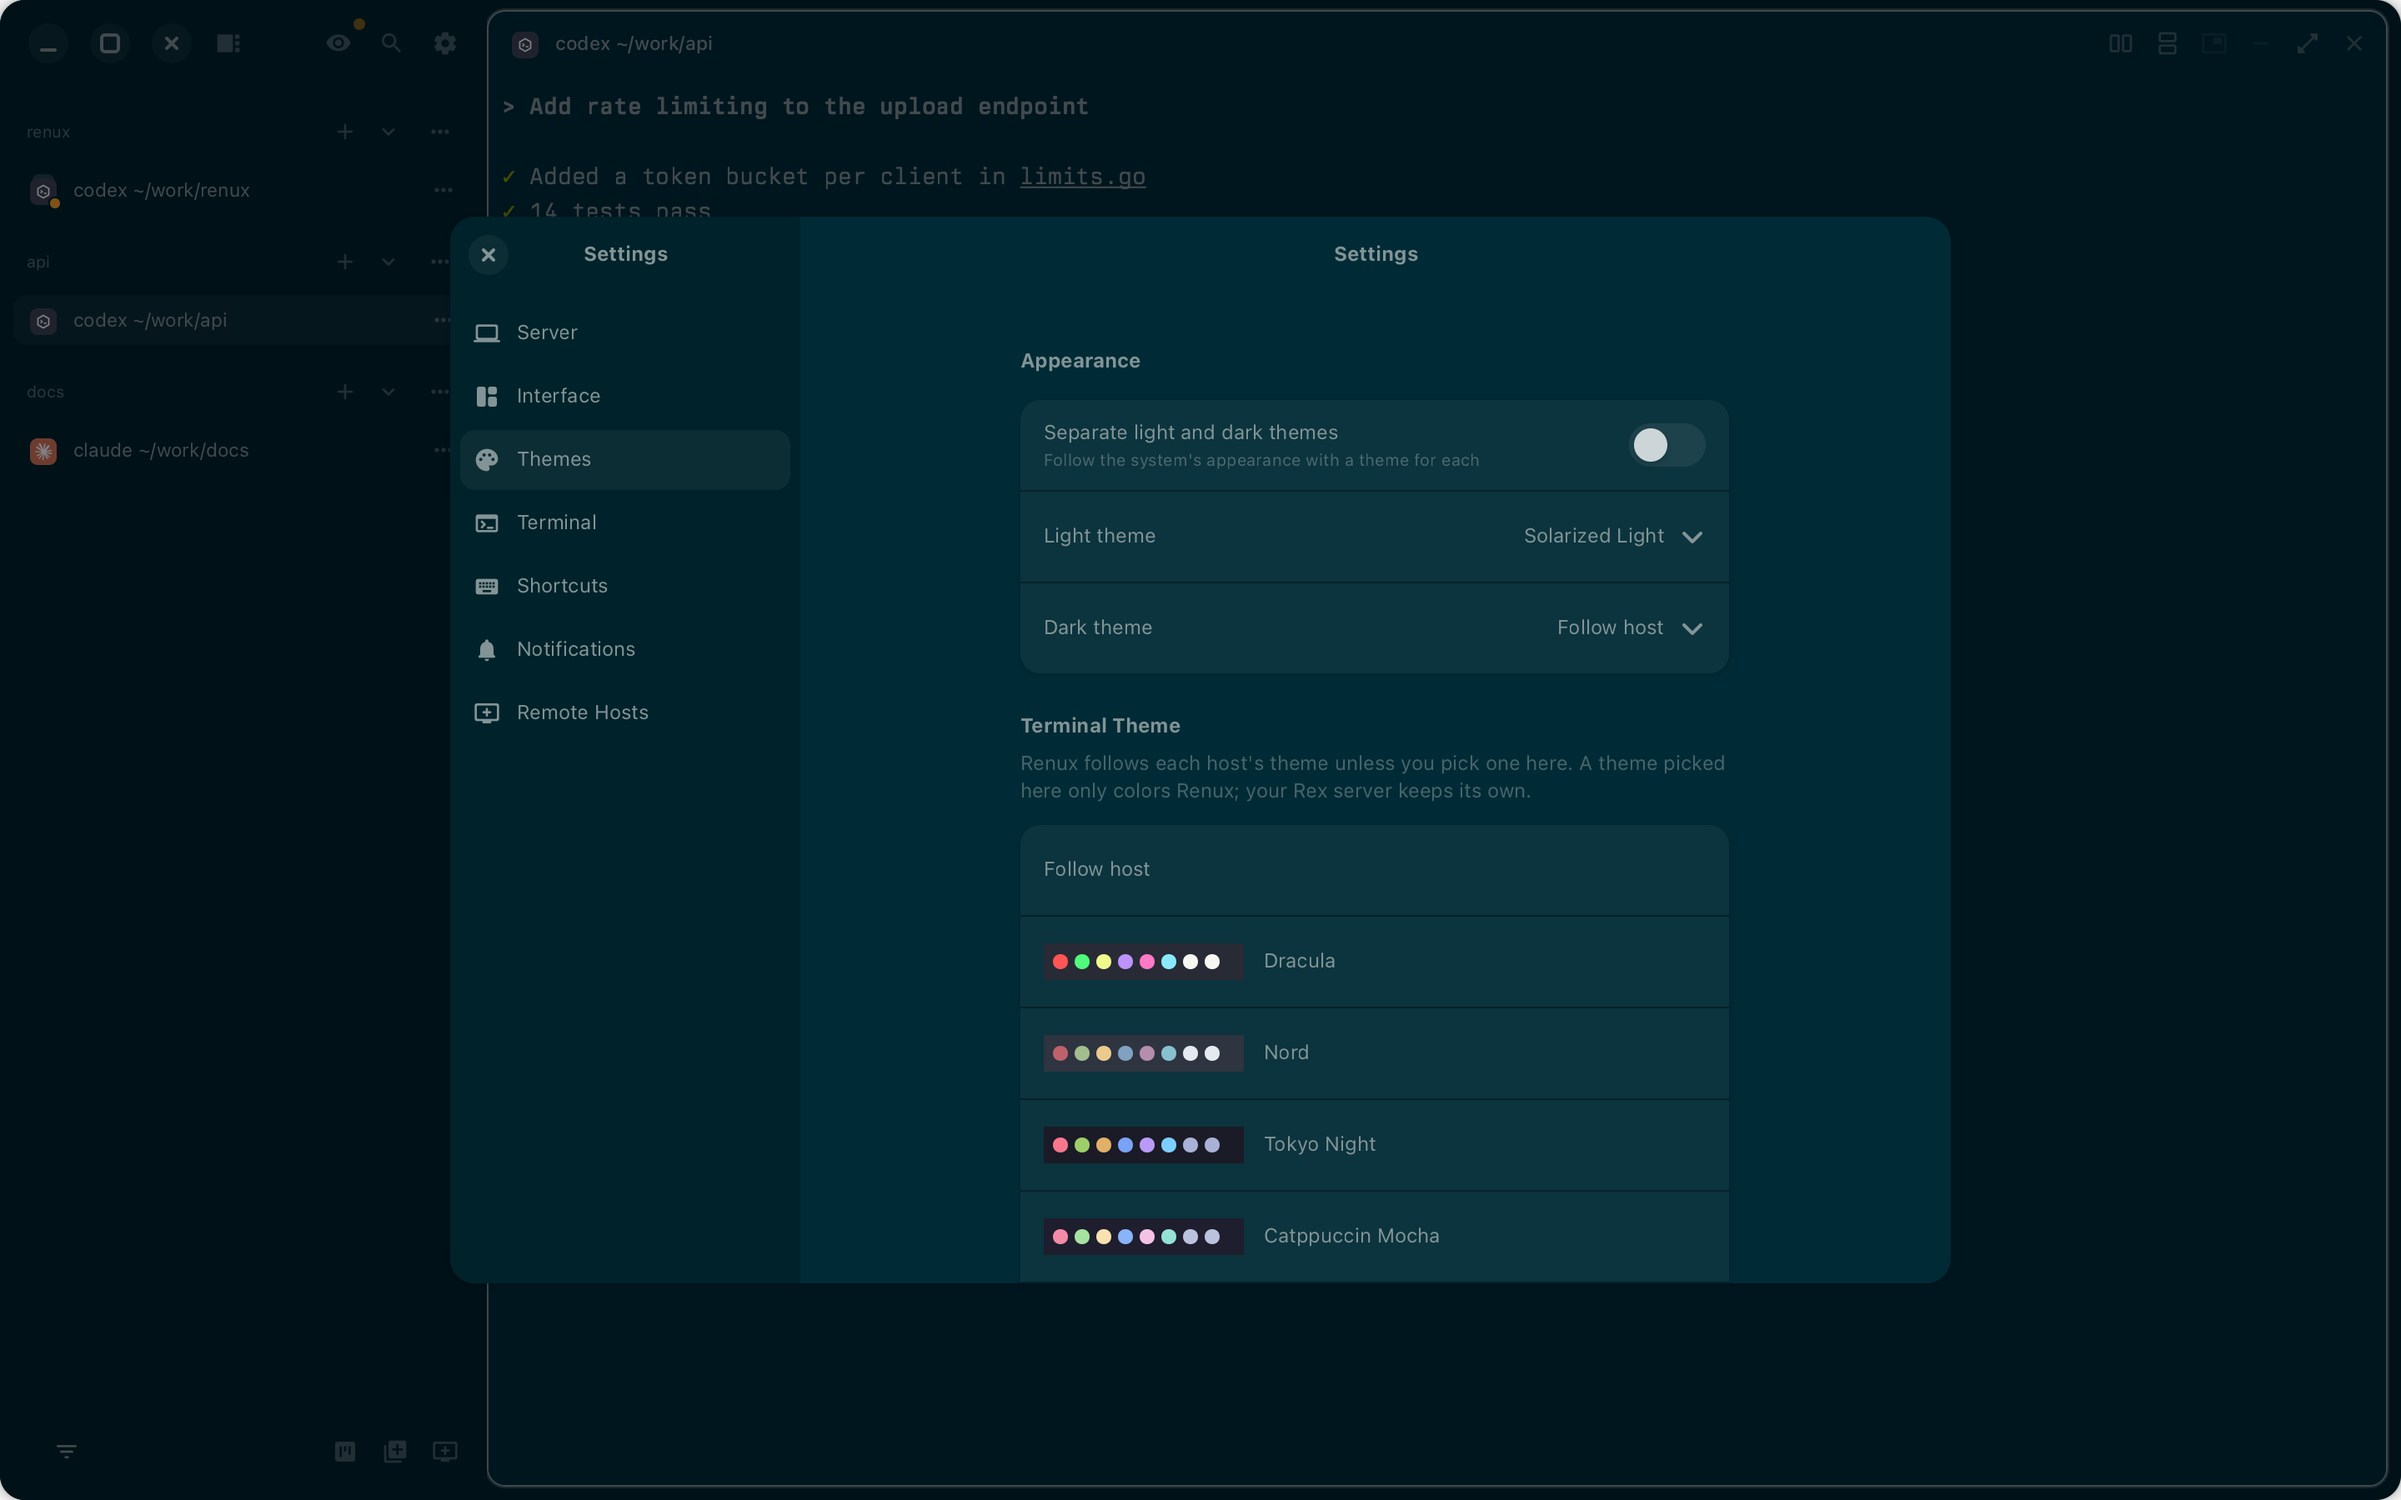
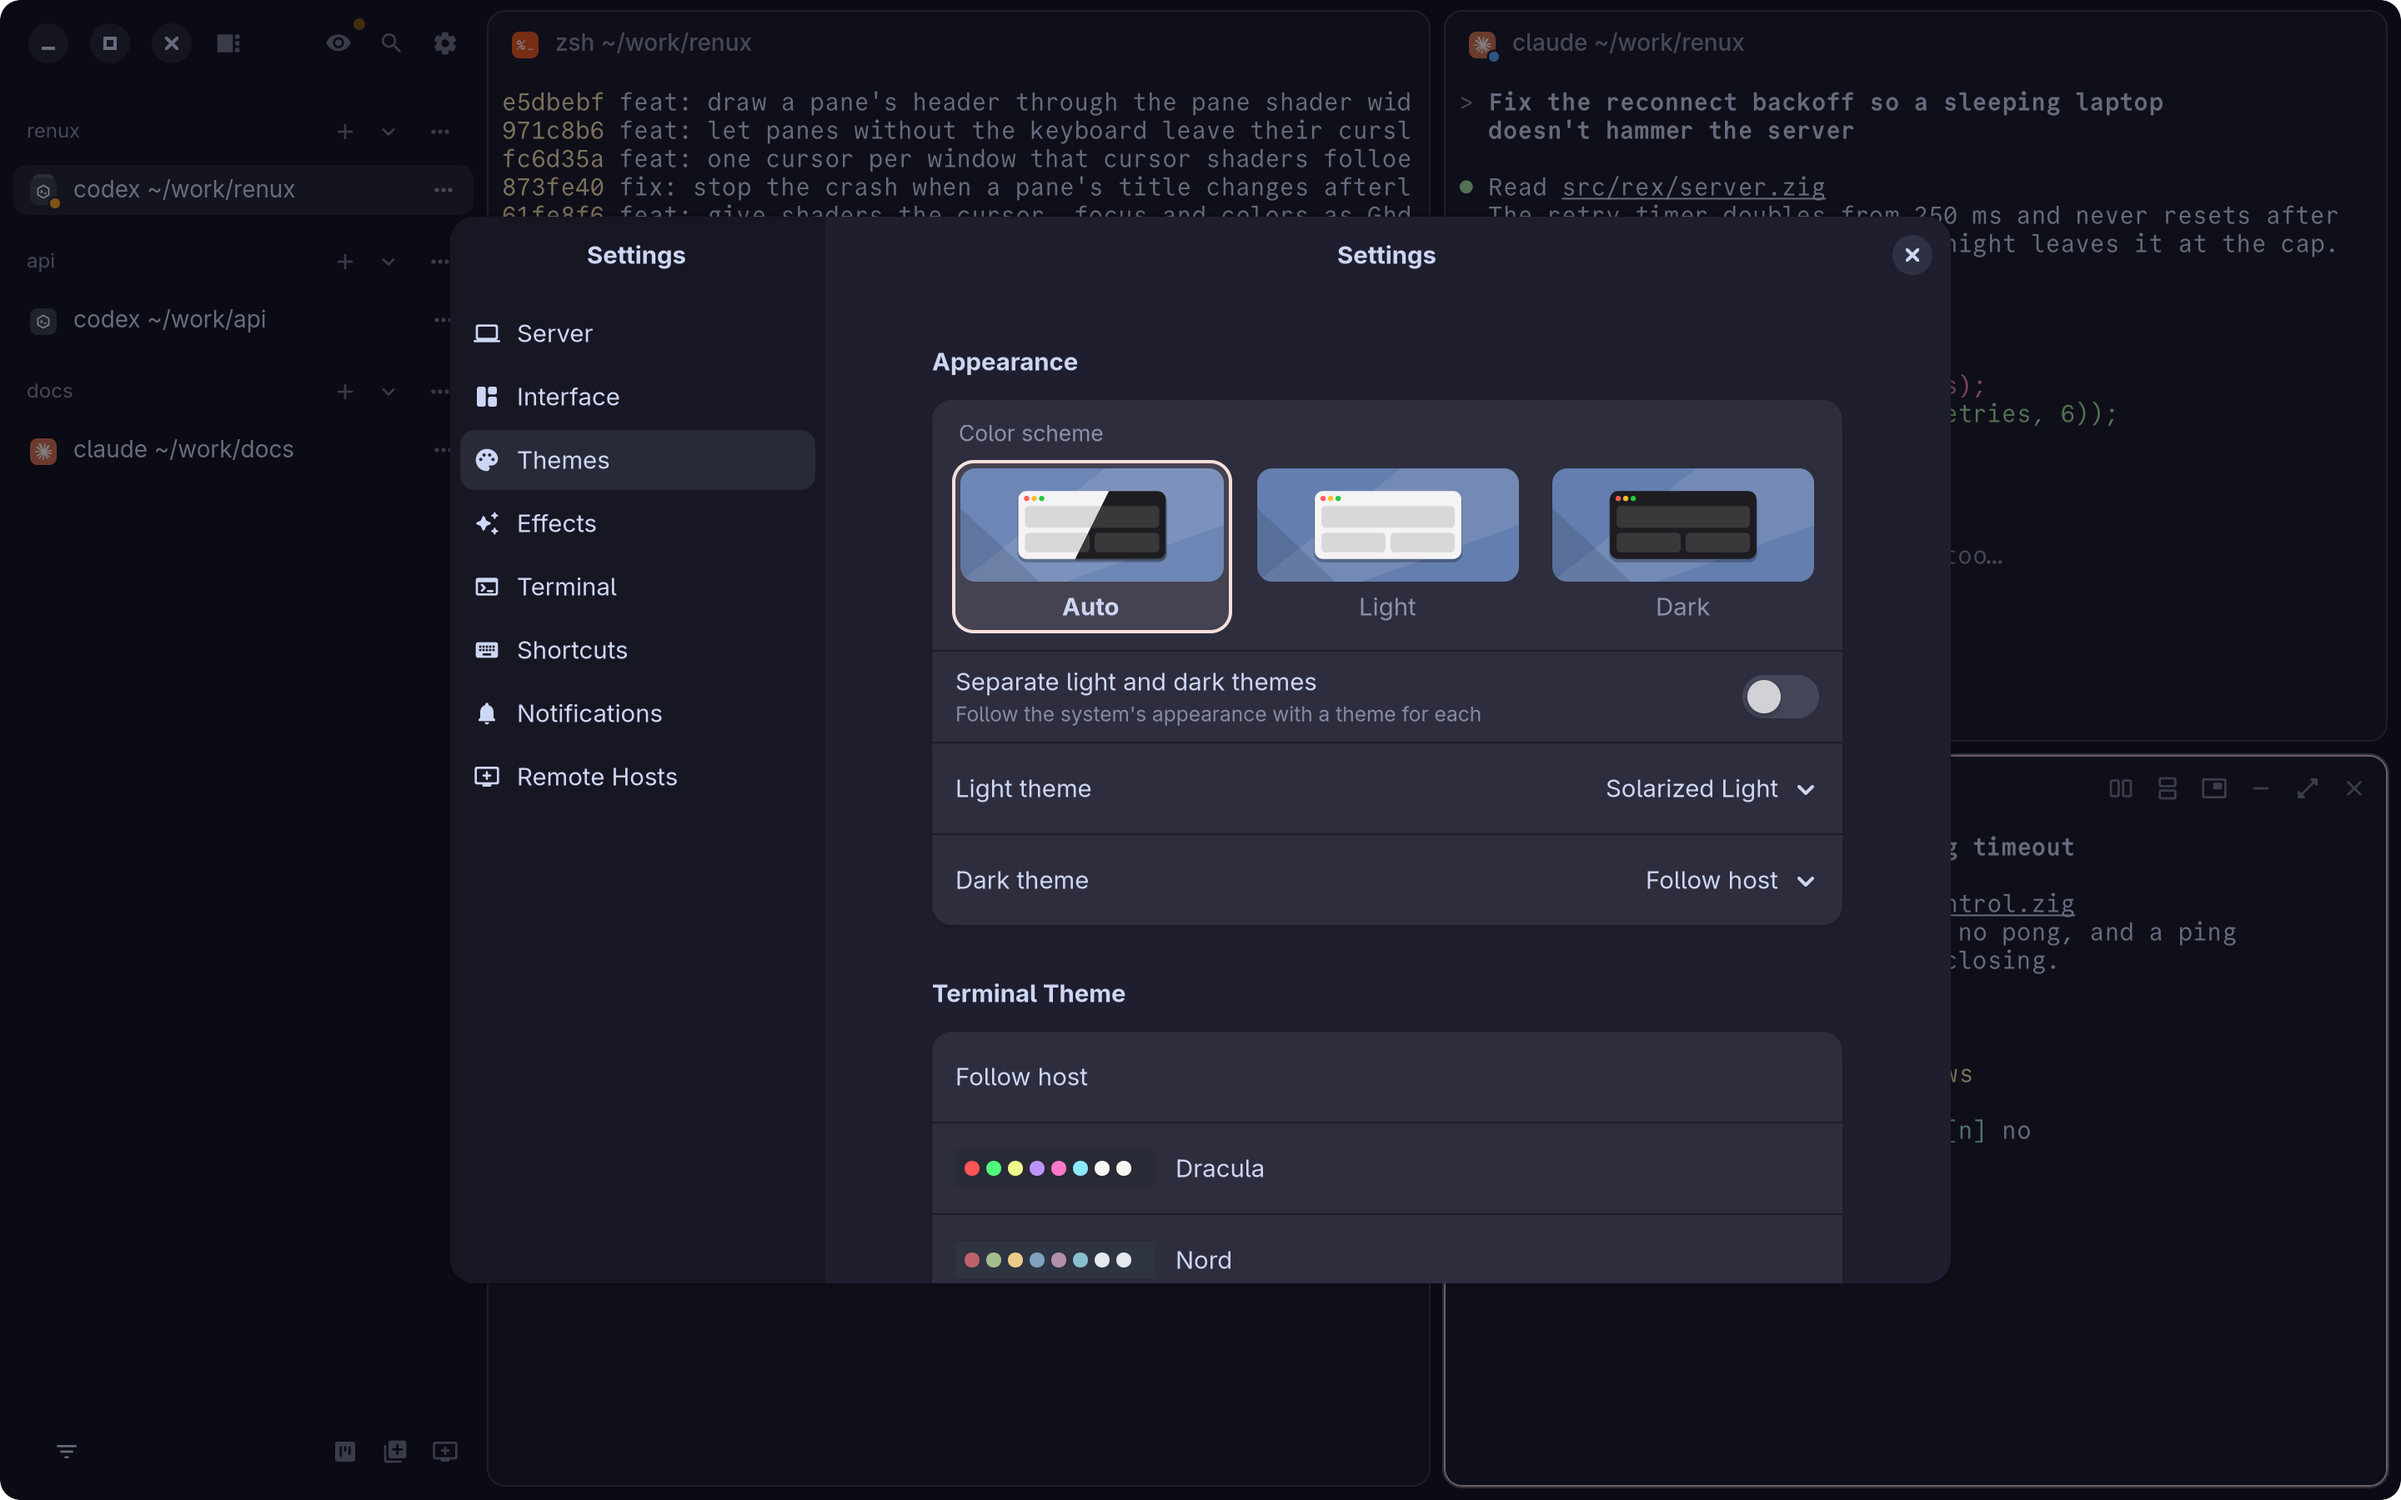
docs: retake the screenshots in Catppuccin Mocha, and say what the shaders and transparency do
The same four pictures at the same size, taken from a demo Rex server with stand-in agents, so
no real sessions or folders show. The README and the app's metainfo now mention the see-through
window and the custom shaders that ship in data/shaders.

diff --git a/README.md b/README.md
@@ -19,6 +19,9 @@ through libghostty-vt.
   agents, with a dot when one needs you.
 - **Several servers.** Connect to more than one Rex server, on this computer or over Tailscale,
   and be told when one could be updated.
+- **Made to look at.** Themes, a see-through window with the desktop's blur behind it, and
+  custom GLSL shaders as in Ghostty: ten ship with Renux, from a CRT to a cursor that smears as
+  it moves.
 
 | The agent board | Only agents in the sidebar |
 |---|---|
@@ -91,7 +94,7 @@ export PKG_CONFIG_PATH=/opt/homebrew/lib/pkgconfig:/opt/homebrew/share/pkgconfig
 | `src/icons/` | Interface and program icons, and how they are drawn |
 | `src/platform/` | Parts for one operating system only |
 | `src/util/` | Small helpers: JSON, drawing, subprocesses, QR codes |
-| `data/` | What is installed beside the program: desktop file, app icons, fonts, program icons |
+| `data/` | What is installed beside the program: desktop file, app icons, fonts, program icons, shaders |
 | `scripts/` | Generators for the icon tables in `src/icons/` |
 | `third_party/ghostty` | Ghostty, for its terminal library |
 
